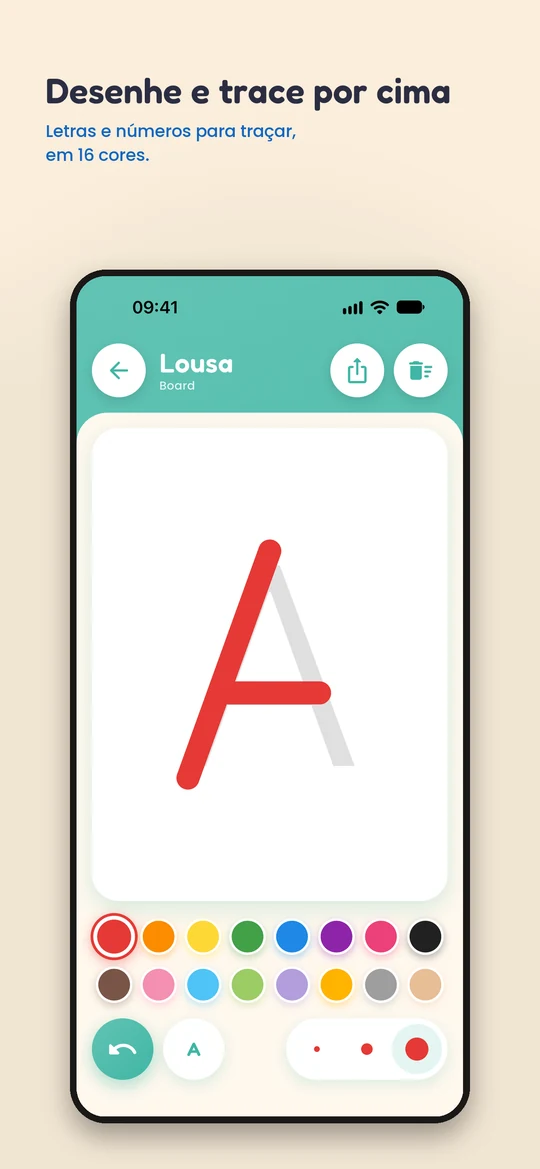
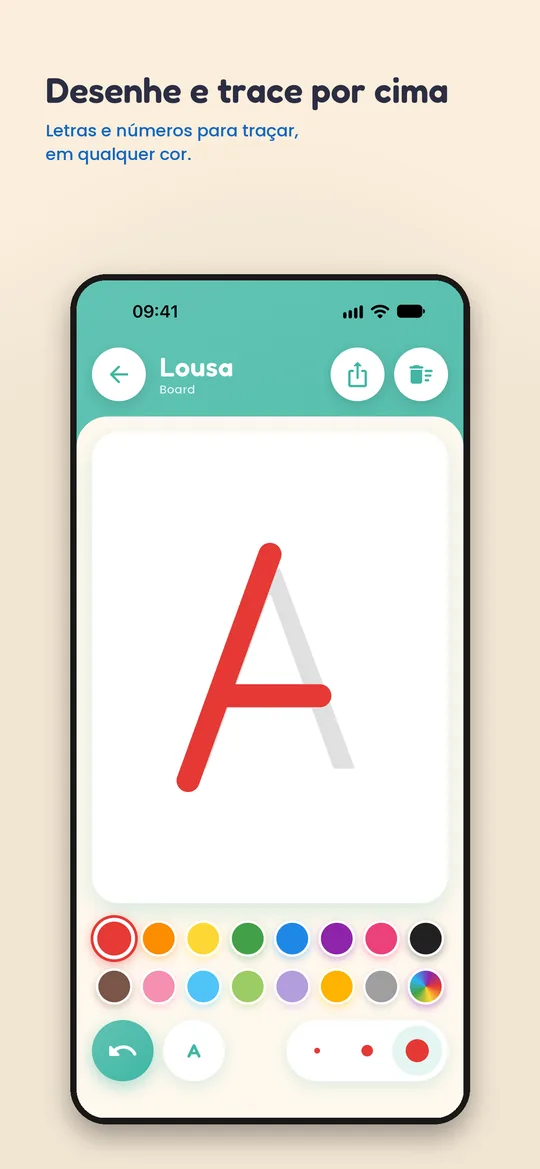
feat(ararinha): vitrine da 1.1 — capturas, capa e 25 temas
As seis telas e a capa saem do store/site/screens e do banner da 1.1 do
repositório do Ararinha (6654604). O cartão diz 25 temas e mais de 650
fotos (676 hoje); as descrições da estante, do Encontre e da Lousa seguem
as telas novas. O selo continua "Em breve nas lojas": as duas revisões
estão abertas.

diff --git a/public/index.html b/public/index.html
@@ -177,7 +177,7 @@
               português ou em inglês, ou o som que o bicho faz. <strong>Sem anúncio, sem conta e sem coleta de
               dados</strong>, e funciona sem internet.</p>
             <ul class="app-points">
-              <li>17 temas e mais de 550 fotos reais, escolhidas uma a uma</li>
+              <li>25 temas e mais de 650 fotos reais, escolhidas uma a uma</li>
               <li>Sons de verdade: bichos, veículos e 37 instrumentos</li>
               <li>O Encontre, um jogo sem pontos nem relógio, e a Lousa para traçar letras e números</li>
               <li>Alfabeto, números, animais e música grátis; o resto numa compra única, atrás da conta dos adultos</li>
@@ -262,11 +262,11 @@
           height="500" loading="lazy">
         <div class="shots">
           <img src="img/ararinha/screens/01-animais.webp" alt="Tema Animais em português: fotos reais com o nome de cada bicho" width="540" height="1169" loading="lazy">
-          <img src="img/ararinha/screens/02-estante.webp" alt="A estante de temas: alfabeto, números, animais e música abertos, e os outros com cadeado" width="540" height="1169" loading="lazy">
+          <img src="img/ararinha/screens/02-estante.webp" alt="A estante: alfabeto, números, animais e música grátis, a Lousa logo abaixo e os outros temas com cadeado" width="540" height="1169" loading="lazy">
           <img src="img/ararinha/screens/03-sons.webp" alt="Modo Sons: tocar no bicho e ouvir o som de verdade" width="540" height="1169" loading="lazy">
-          <img src="img/ararinha/screens/04-encontre.webp" alt="O Encontre: o livro pergunta onde está o bicho, e a criança toca na foto" width="540" height="1169" loading="lazy">
+          <img src="img/ararinha/screens/04-encontre.webp" alt="O Encontre: o livro pergunta onde está o papagaio, e a criança toca na foto" width="540" height="1169" loading="lazy">
           <img src="img/ararinha/screens/05-musica-english.webp" alt="Tema Música em inglês: os instrumentos com o nome em inglês" width="540" height="1169" loading="lazy">
-          <img src="img/ararinha/screens/06-lousa.webp" alt="A Lousa com a letra A para traçar por cima, meio traçada em vermelho" width="540" height="1169" loading="lazy">
+          <img src="img/ararinha/screens/06-lousa.webp" alt="A Lousa com a letra A para traçar por cima, meio traçada em vermelho, e as cores para escolher" width="540" height="1169" loading="lazy">
         </div>
         <p class="shots-hint">Arraste para ver as seis telas</p>
       </div>
